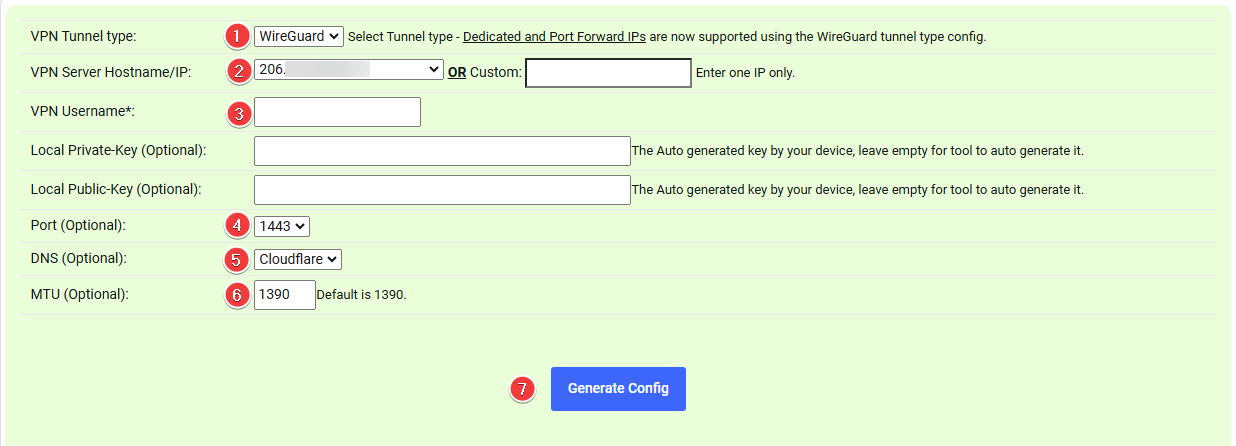
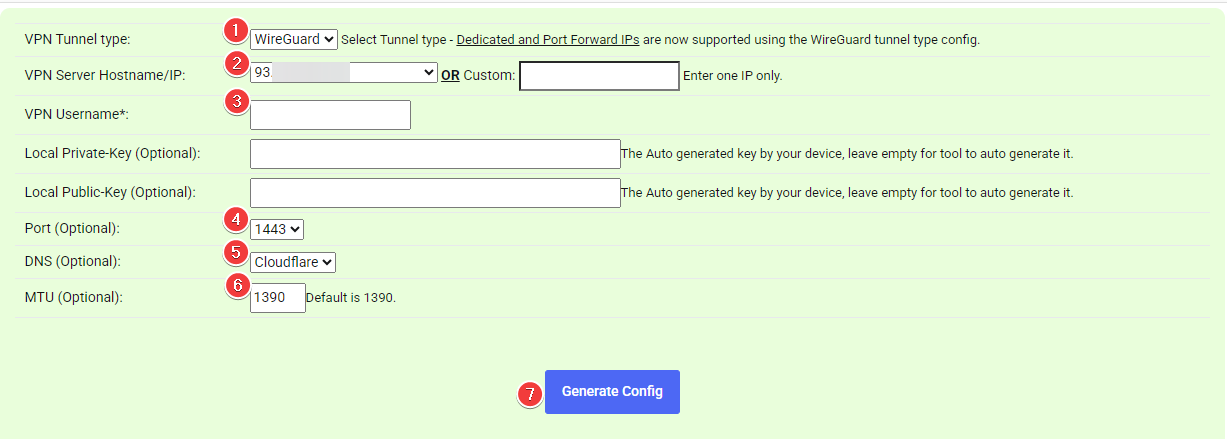
feat(misc): Simplified How Setup TorGuard for port forwarding instructions  (#2327)
* feat(misc): Simplified How Setup TorGuard for port forwarding instructions

* removed not used images

Changed region(s): [[0.0, 0.0, 1.0, 1.0], [0.4026, 0.7995, 0.5575, 0.9476]]

diff --git a/docs/Misc/How-to-setup-Torguard-for-port-forwarding.md b/docs/Misc/How-to-setup-Torguard-for-port-forwarding.md
@@ -1,6 +1,6 @@
 # Setup TorGuard for port forwarding
 
-These are our supported and recommended settings, if you would like to choose others please keep that in mind.
+These are our supported and recommended settings.
 
 If you want to support me, please use this [referral link](https://torguard.net/aff.php?aff=5575){:target="_blank" rel="noopener noreferrer"} and enter the following discount code:
 
@@ -12,13 +12,13 @@ TRaSH-Guides-2024
 
 [![torguard-FreeTrial-270x90](images/torguard/torguard-FreeTrial-728x90.gif)](https://torguard.net/aff.php?aff=5575){:target="_blank" rel="noopener noreferrer"}
 
-!!! bug "As of 13 March 2022 Torguard Settles Piracy Lawsuit and has agreed to use commercially reasonable efforts to block BitTorrent traffic on its servers in the US using firewall technology. :bangbang:<br><br>I Talked to several people and they are still able to use Torguard for Torrents, Perhaps because the connection is encrypted. And others just selected a server in another country.<br>- [Source Torguard](https://torguard.net/blog/why-torguard-is-blocking-bittorrent-on-us-servers/){:target="_blank" rel="noopener noreferrer"}.<br>- [Source Torrentfreak](https://torrentfreak.com/torguard-settles-piracy-lawsuit-and-agrees-to-block-torrent-traffic-on-u-s-servers-220314/){:target="_blank" rel="noopener noreferrer"}."
+!!! bug "As of 13 March 2022, Torguard Settles Piracy Lawsuit has agreed to use commercially reasonable efforts to block BitTorrent traffic on its servers in the US using firewall technology. :bangbang:<br><br>I talked to several people, and they can still use Torguard for Torrents, perhaps because the connection is encrypted. Others just selected a server in another country.<br>- [Source Torguard](https://torguard.net/blog/why-torguard-is-blocking-bittorrent-on-us-servers/){:target="_blank" rel="noopener noreferrer"}.<br>- [Source Torrentfreak](https://torrentfreak.com/torguard-settles-piracy-lawsuit-and-agrees-to-block-torrent-traffic-on-u-s-servers-220314/){:target="_blank" rel="noopener noreferrer"}."
 
 !!! warning "If servers in the United States are not working for you, please try another country"
 
 ---
 
-## Login to your Client area
+## Log in to your Client area
 
 Login to your [Client Area](https://torguard.net/clientarea.php){:target="\_blank" rel="noopener noreferrer"}.
 
@@ -28,8 +28,8 @@ Login to your [Client Area](https://torguard.net/clientarea.php){:target="\_blan
 
 ### Create a user account
 
-First we're going to create a [User Account](https://torguard.net/clientarea.php?action=changepw){:target="\_blank" rel="noopener noreferrer"} for your VPN so we won't need to use your main account that you use to login to your account on the Torguard site.
-This account will be used for authentication with your VPN Torrent client.
+First, we're going to create a [User Account](https://torguard.net/clientarea.php?action=changepw){:target="\_blank" rel="noopener noreferrer"} for your VPN so we won't need to use your main account that you use to login to your account on the Torguard site.
+This account will be used to authenticate with your VPN service that your Torrent client will use.
 
 `Services` > `My Services` > `Manage` > `Manage Credentials`
 
@@ -39,52 +39,11 @@ This account will be used for authentication with your VPN Torrent client.
 
     ![!Client Area Manage Credentials](images/torguard/client-area-manage-credentials.png)
 
-Create a new username and choose a secure password or create a random username and password.
+Create a new username and choose a secure password, or create a random username and password.
 
 ??? success "Example - [Click to show/hide]"
 
     ![!Create User Account](images/torguard/create_user_account.png)
-
----
-
-## How to get the IP of your VPN server
-
-Now it's time to get the IP of your VPN server you're going to use from the [Global VPN Network](https://torguard.net/network/){:target="\_blank" rel="noopener noreferrer"}, From your Client Area.
-
-`Servers` > `Global VPN Network`
-
-??? success "Example - [Click to show/hide]"
-
-    ![!Servers > Global VPN Network](images/torguard/servers-globalvpnnetwork.png)
-
-### Global VPN Network
-
-Then we're going to select which server we're going to use,
-
-For the best speed it's recommended to choose the one nearest to your location.
-
-!!! tip "Sometimes you will have better speeds if you choose a neighboring country."
-
-!!! warning "If the US server doesn't work for you use another country"
-
-For this example, let's use: `Netherlands Amsterdam` and copy/paste the hostname `nl.torguard.org`.
-
-![!Torguard Global VPN Network](images/torguard/globalvpnnetwork-list.png)
-
-!!! tip "Also check if your selected server supports Wireguard"
-
-### Get your VPN IP
-
-Open a cmd window or something equal and type:
-
-```bash
-    ping nl.torguard.org
-```
-
-You will then get the IP of the server.
-Remember that for later use.
-
-![!ping](images/torguard/cmd-ping.png)
 
 ---
 
@@ -104,12 +63,12 @@ Then click on `Manage` and select `Port Forward Request`.
 
 ![!Request New Port Forward WireGuard](images/torguard/request-new-pfw-wireguard.png)
 
-1. That's the `IP` we found earlier.
+1. Select a country near your location from the drop-down box.
 1. Select `UDP`. (:bangbang: **KEEP THIS ON UDP FOR WireGuard** :bangbang:)
 1. Select `Port/Auth` and select `WireGuard`.
 1. Select the `Protocol` `TCP`.
-1. We suggest using a high `Port` number 10000+ or a game port you don't use, don't use the default torrent ports 6881- 6889
-    (This is also the port you will use in your torrent client).
+1. We suggest using a high `Port` number 10000+ or a game port you don't use. Do not use the default torrent ports 6881- 6889
+    (This is also the port you will use for your torrent client.)
 1. Click on the `+` sign, and do the same with the `UDP` `Protocol`.
 1. Then click on `Submit Request`.
 
@@ -121,7 +80,7 @@ If everything succeeds, you will see the following.
 
 You will also receive an e-mail with the ports you forwarded.
 
-!!! Note "Normally it takes only a short while for the ports to be approved, if it takes longer or you get `PENDING` we suggest pinging the server again (or choose another server) to attempt to get a new IP. You can then retry the process with the new IP."
+!!! note "Normally, it takes only a short while for the ports to be approved. If it takes longer or you get `PENDING,` we suggest retrying the process."
 
 ---
 
@@ -140,14 +99,14 @@ From your `Client Area` dashboard, go to your [`Config Generator`](https://torgu
 ![!WireGuard Config Generator](images/torguard/config-generator-wireguard.png)
 
 1. Choose `WireGuard`.
-1. Choose from the dropdown box the `IP` we got earlier and used for the port forwarding.
+1. Choose from the dropdown box the `IP` assigned to you earlier and used for the port forwarding.
 1. Add your `VPN Username`.
-1. Only Change this if you know what you're doing :bangbang:
+1. Only change this if you know what you're doing :bangbang:
 1. [Optional] Choose your preferred DNS Server
-1. Only Change this if you know what you're doing :bangbang:
+1. Only change this if you know what you're doing :bangbang:
 1. Click on `Generate Config`
 
-This will generate a `.conf` file for you to download named with a random number.
+This will generate a `.conf` file for you to download, named with a random number.
 
 Rename the `.conf` file you just downloaded to `wg0.conf` and copy it to the wireguard folder of your VPN torrent client.
 
